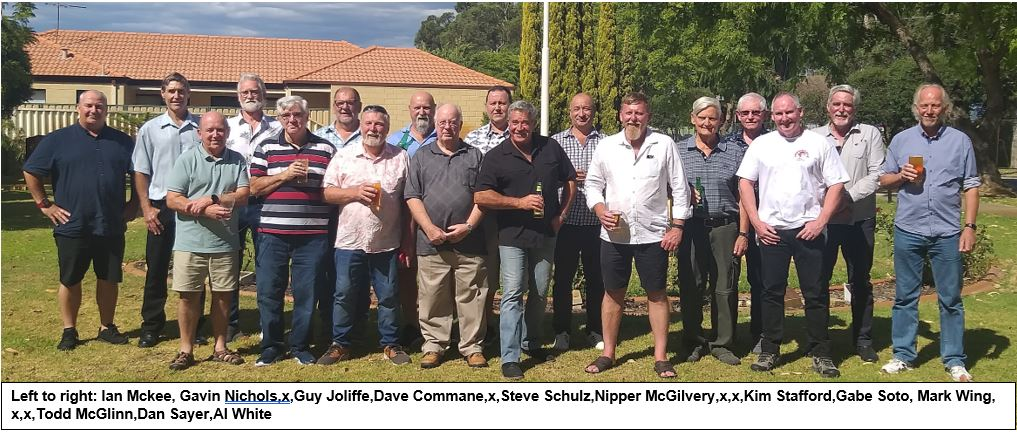
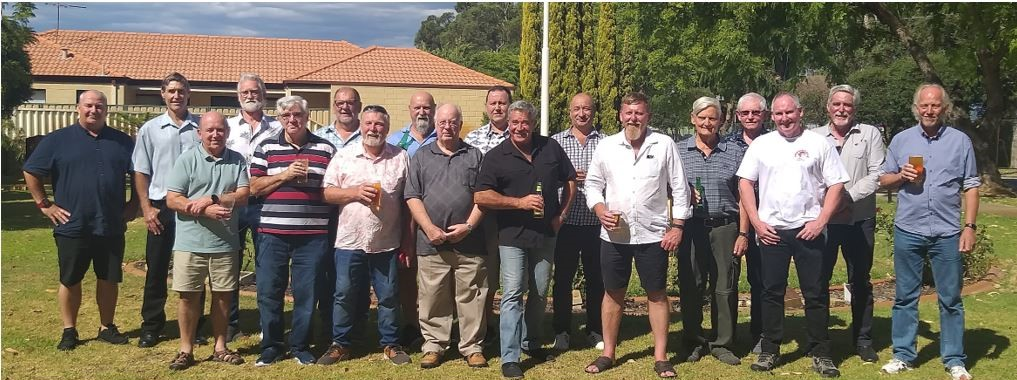
photos

diff --git a/reunions/2023_Jan_Perth_Get-Together.html b/reunions/2023_Jan_Perth_Get-Together.html
@@ -88,10 +88,10 @@
 
   <div class="gallery">
     <a href="../images/20230121_153620.jpg" data-lightbox="mygallery" data-title="Ready for the group photo"><img src="../images/20230121_153620.jpg" ALIGN="CENTER" WIDTH="134" HEIGHT="70"></a>
-    <a href="../images/20230121_153635.jpg" data-lightbox="mygallery" data-title="Group photo of members who attended"><img src="../images/20230121_153635.jpg" ALIGN="CENTER" WIDTH="134" HEIGHT="70"></a>
+    <a href="../images/20230121_153635.jpg" data-lightbox="mygallery" data-title="L to R: Ian 'Kiwi' Mckee, Gavin Nicholls, TBA, Guy Joliffe, Dave Commane, TBA, Steve Shultz, Nipper McGilvery, Al White, TBA, Kim Stafford, Gabe Soto, Mark Wing, TBA, TBA, Todd McGlinn, Dan Sayer, Dave Pitts."><img src="../images/20230121_153635.jpg" ALIGN="CENTER" WIDTH="134" HEIGHT="70"></a>
     <a href="../images/20230121_153752.jpg" data-lightbox="mygallery" data-title=""><img src="../images/20230121_153752.jpg" ALIGN="CENTER" WIDTH="134" HEIGHT="70"></a>
     <a href="../images/20230121_153443.jpg" data-lightbox="mygallery" data-title=""><img src="../images/20230121_153443.jpg" ALIGN="CENTER" WIDTH="134" HEIGHT="70"></a>
-    <a href="../images/perthGT23_named.JPG" data-lightbox="mygallery" data-title=""><img src="../images/perthGT23_named.JPG" ALIGN="CENTER" WIDTH="134" HEIGHT="70"></a>
+    <a href="../images/perthGT23_named.JPG" data-lightbox="mygallery" data-title="L to R: Ian 'Kiwi' Mckee, Gavin Nicholls, TBA, Guy Joliffe, Dave Commane, TBA, Steve Shultz, Nipper McGilvery, Al White, TBA, Kim Stafford, Gabe Soto, Mark Wing, TBA, TBA, Todd McGlinn, Dan Sayer, Dave Pitts."><img src="../images/perthGT23_named.JPG" ALIGN="CENTER" WIDTH="134" HEIGHT="70"></a>
     <a href="../images/20230121_153322.jpg" data-lightbox="mygallery" data-title=""><img src="../images/20230121_153322.jpg" ALIGN="CENTER" WIDTH="134" HEIGHT="70"></a>
     <a href="../images/20230121_153413.jpg" data-lightbox="mygallery" data-title=""><img src="../images/20230121_153413.jpg" ALIGN="CENTER" WIDTH="134" HEIGHT="70"></a>
     <a href="../images/20230121_153621.jpg" data-lightbox="mygallery" data-title=""><img src="../images/20230121_153621.jpg" ALIGN="CENTER" WIDTH="134" HEIGHT="70"></a>

diff --git a/index.html b/index.html
@@ -180,8 +180,9 @@
         </div>
         
     </div>
-    
-
+ <div>
+  
+ </div>
   
 <div style="display: grid; grid-template-columns: 1fr 2fr 1fr; ">
 
